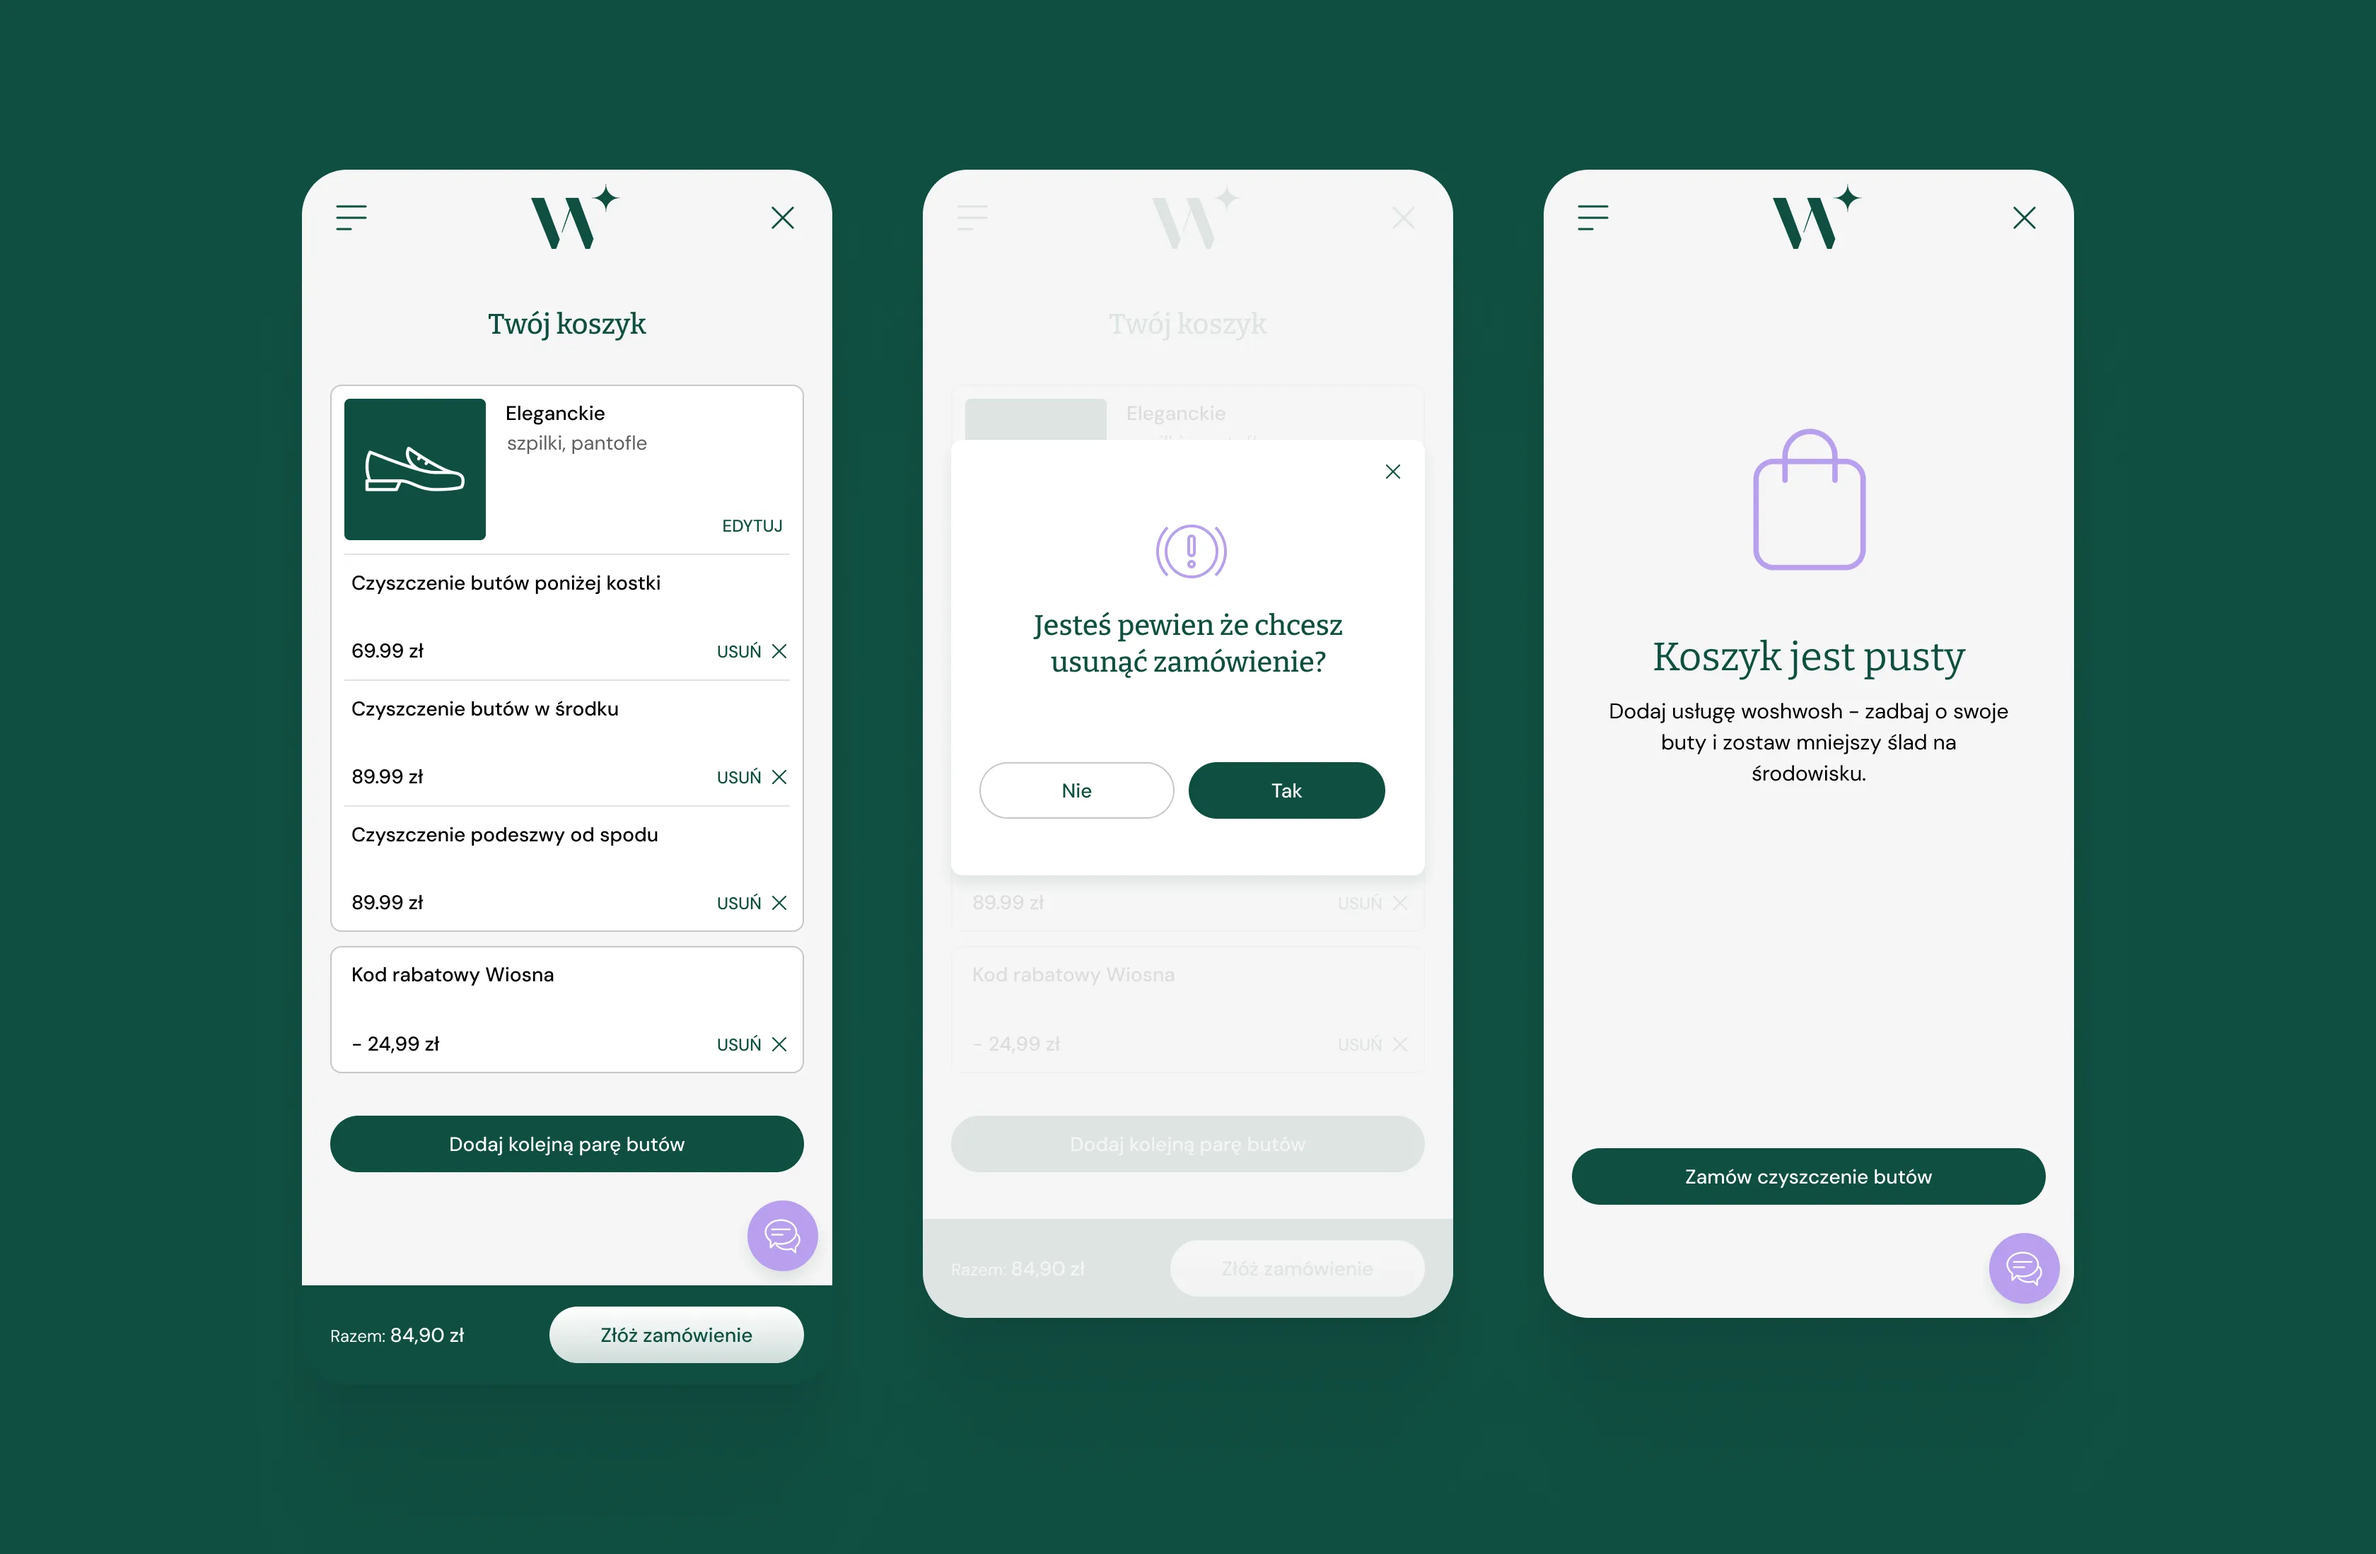
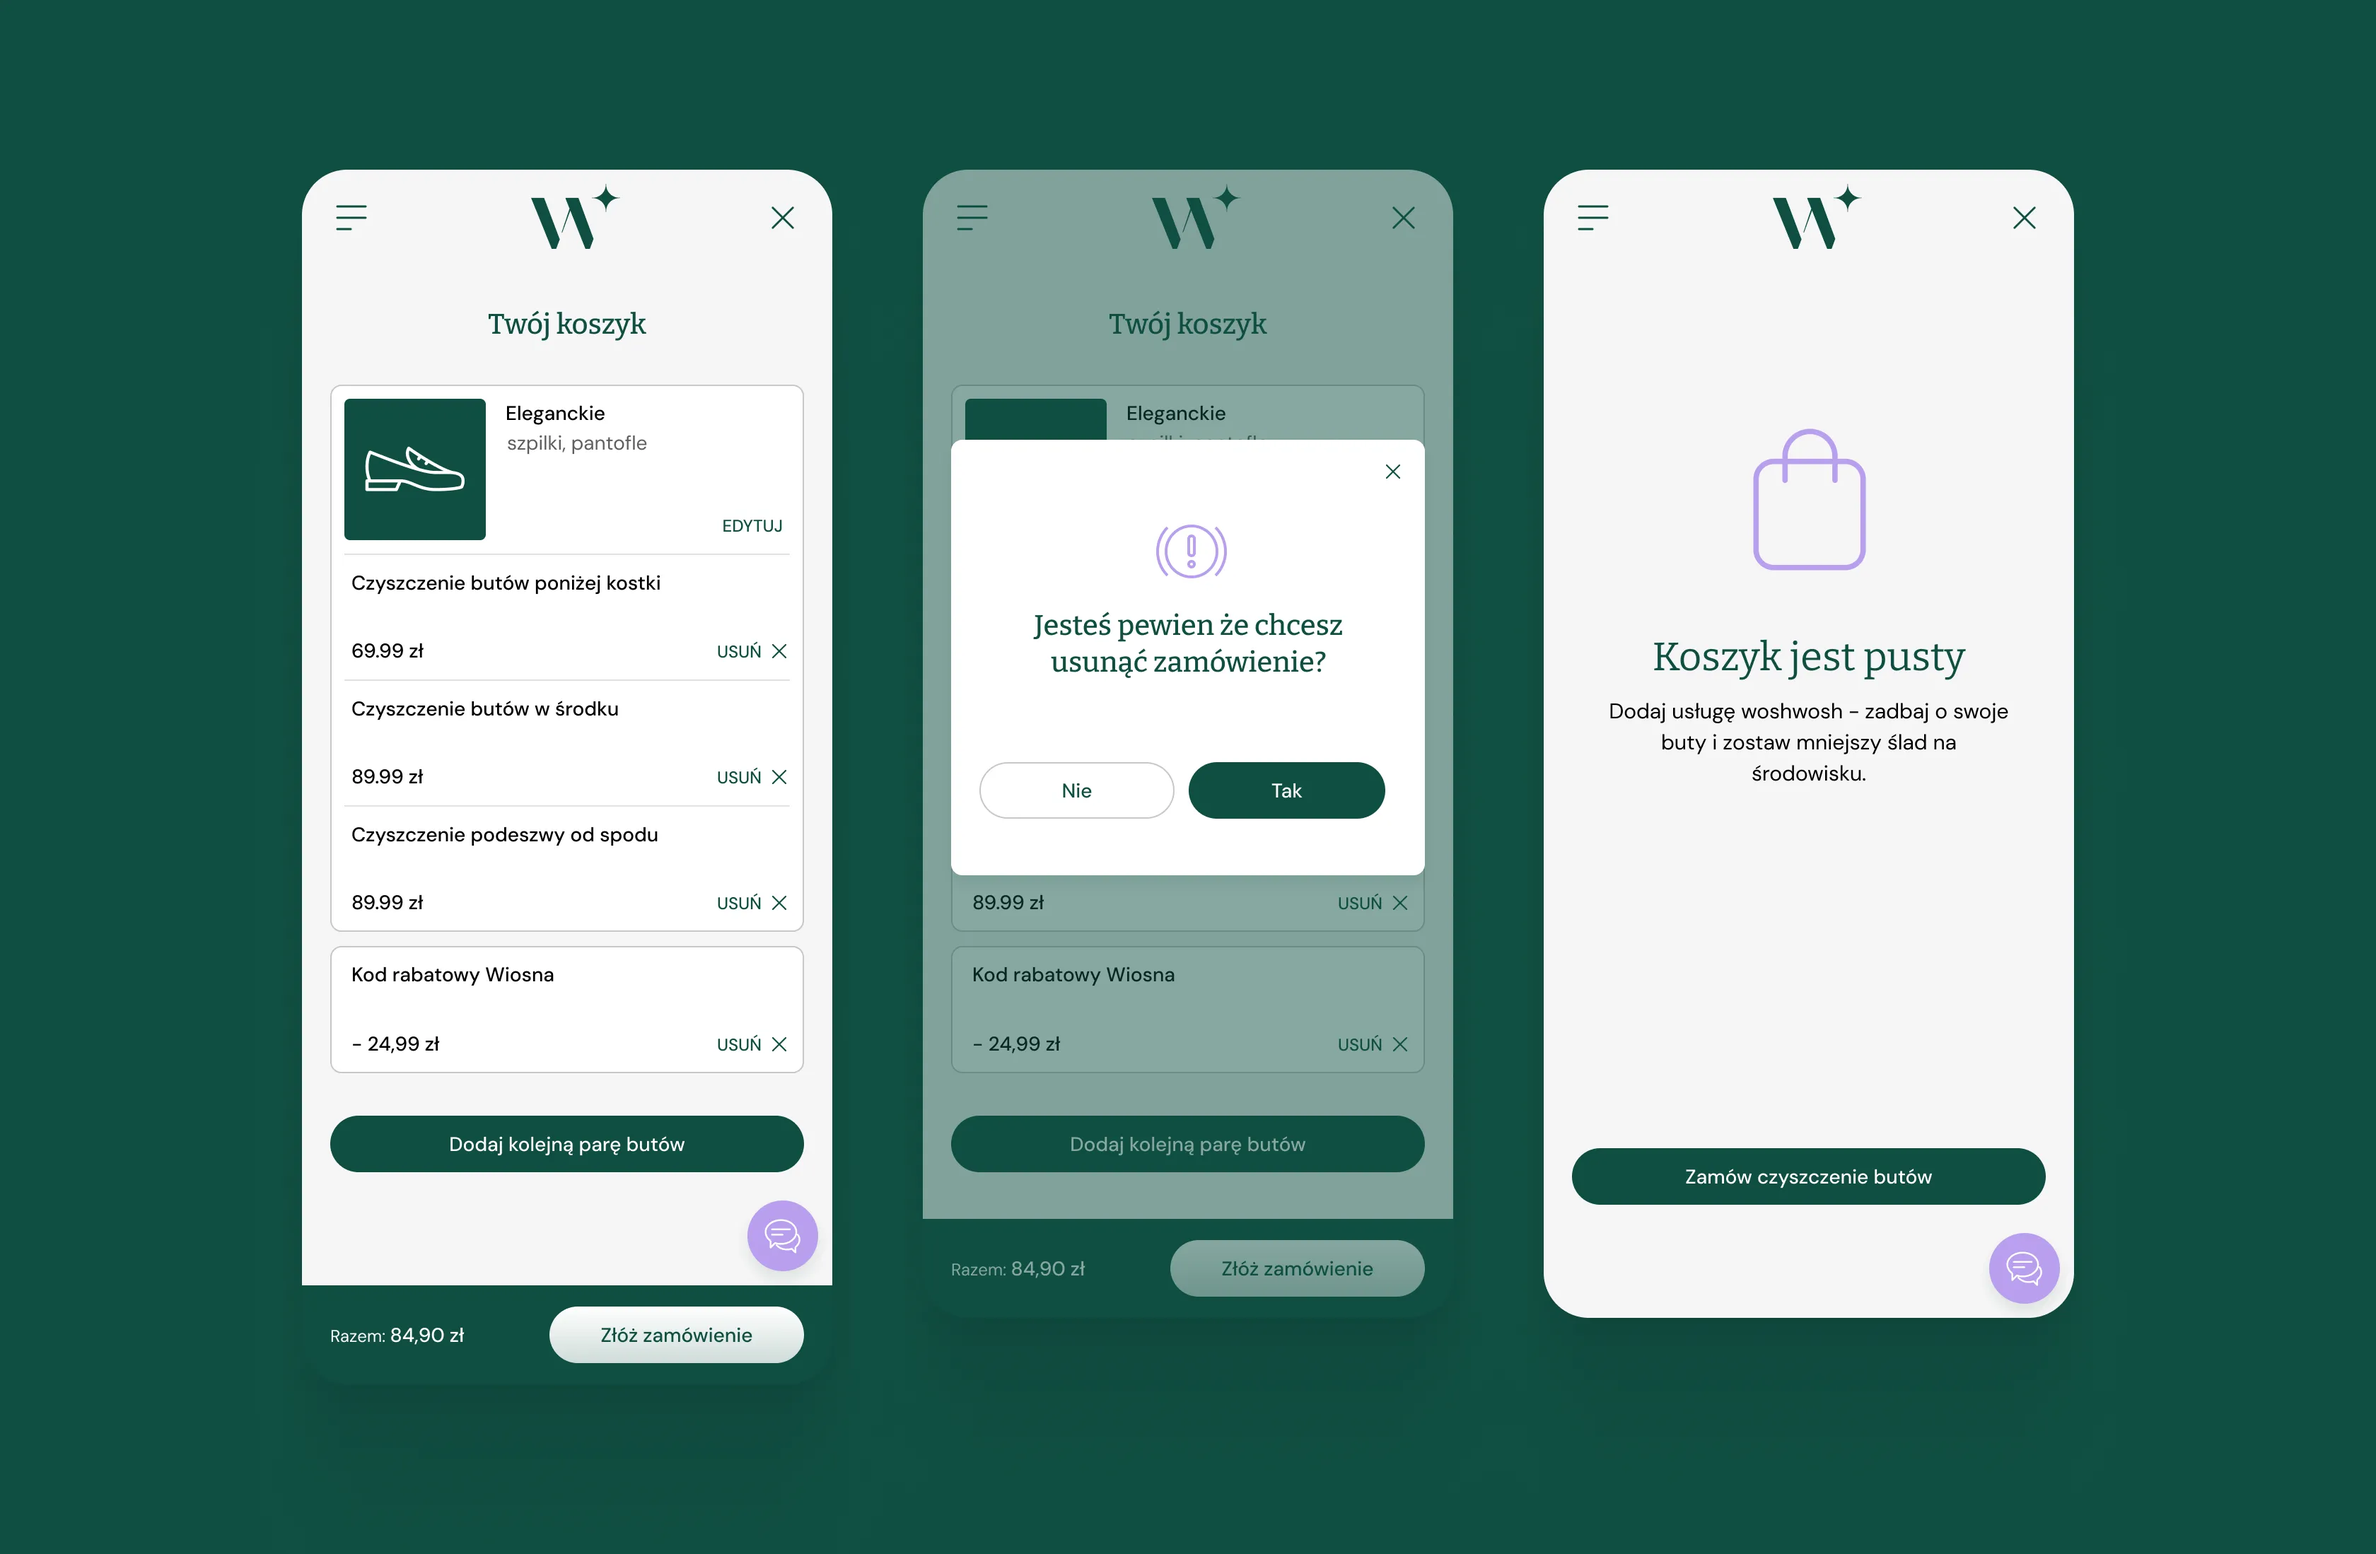
Case study woshwosh + rozbudowa szablonu case study
- Nowy case /case-study/woshwosh (data-driven: woshwosh.js)
- Kolejność sekcji A: serce produktu na start, funkcyjne ekrany na koniec
- App-screeny na kolorowej apli; hero cover = miniatura HP na #EEF3F1 85%
- Key Challenges jako akapity ciągłe (leads: tytuł czarny + opis szary)
- CasePanel: propsy widthMobile, padY, padYMobile, gap
- Hero: coverBg/coverWidth/coverMaxWidth, introWidth; intro eco-friendly U+2011
- Fix: [slug].astro forwarduje padY/widthMobile do CasePanel

Changed region(s): [[0.375, 0.0928, 0.625, 0.8662]]

diff --git a/src/data/cases/woshwosh.js b/src/data/cases/woshwosh.js
@@ -1,0 +1,115 @@
+// Treść case study: woshwosh.
+// Źródło treści (tekst + lista obrazków). Układ/CSS robi szablon
+// src/pages/case-study/[slug].astro. Opis pól: patrz ania-kruk.js.
+//
+// Ten case: obrazki leżą na kolorowej apli (panel), 80% desktop / 100% mobile,
+// padY:0 = tło widać tylko po bokach (bez marginesu góra/dół).
+// Kolory (podział Arka): 01, 07 → #EBEFF0; 03, 04, 05, 06, 08 → #0E4F41.
+// Hero (cover) = miniatura z HP (00.webp = kopia cover.webp) na tle #EEF3F1, 85%.
+// Bez tła, pełna szerokość: Hero.webp (w Introduction) i obrazek 02 (Process).
+// Obrazki 05 + 06 = jeden panel (bez tekstu między nimi).
+
+const LIGHT = '#EBEFF0';
+const GREEN = '#0E4F41';
+
+export const woshwosh = {
+  slug: 'woshwosh',
+  title: 'woshwosh',
+  description: 'A mobile app for ordering professional, eco-friendly shoe cleaning and repair. UX and UI design by Arek Sobczyk.',
+
+  hero: {
+    title: [
+      { text: 'woshwosh' },
+      { text: 'shoe care', mute: true },
+      { text: 'app', mute: true },
+    ],
+    intro: 'An app for ordering professional, eco‑friendly shoe cleaning and repair',   // eco‑friendly: dywiz niełamliwy (U+2011)
+    introWidth: '760px',   // 2 linie na desktop: „...and repair" kończy linię 2
+    role: 'UX design, UI design',
+    year: '2022',
+    cover: '00.webp',          // miniatura z HP (kopia cover.webp)
+    coverBg: '#EEF3F1',
+    coverWidth: '85%',
+    coverMaxWidth: '1100px',
+  },
+
+  sections: [
+    {
+      label: 'Introduction',
+      figLg: true,            // 200px odstęp od tekstu do obrazka poniżej
+      text: [
+        'woshwosh is the first company in Poland to offer professional shoe cleaning and repair in the spirit of zero waste. Serving both individual and business clients, the brand is built around sustainability and extending the life of things people already own. To make ordering simple, woshwosh needed an intuitive mobile app.',
+      ],
+      facts: [
+        ['My role', 'UX Design, UI Design'],
+        ['Client', 'woshwosh'],
+        ['Agency', 'Move Closer'],
+        ['Date', '2022'],
+      ],
+      figures: ['Hero.webp'],   // obecny hero zszedł o jedno niżej (pełna szerokość, bez tła)
+    },
+    {
+      label: 'Key Challenges',
+      figures: [{ panel: LIGHT, width: '80%', widthMobile: '100%', padY: 0, padYMobile: 'var(--space-32)', images: ['01.webp'] }],   // 01 zeszło o jedno niżej → obrazek między Key Challenges a Process
+      // leads: akapit ciągły „Tytuł (czarny). Opis (szary)". Kropkę po tytule dokłada szablon.
+      leads: [
+        {
+          lead: 'Logistics that run both ways',
+          text: 'The customer sends the shoes in (by courier or in person) and gets them back once the service is done. The checkout has to handle both directions.',
+        },
+        {
+          lead: 'A complex process behind a simple screen',
+          text: 'Different shoe types, additional services, and order statuses, all kept behind an easy interface.',
+        },
+        {
+          lead: 'Constant clarity',
+          text: 'The customer needs to know exactly what is happening with their shoes at every stage.',
+        },
+      ],
+    },
+    {
+      label: 'Process',
+      text: [
+        'I designed a mobile app that reduces ordering to two clear steps: pick the shoe type, then choose additional services.',
+        'In the checkout, I added a dedicated shipping step tailored to woshwosh\'s ship-in, ship-back model. On the company\'s side, I designed a shoe verification step and a notification system that keeps users informed from the moment shoes are sent to the moment they come back.',
+      ],
+      figures: ['02.webp'],   // bez tła, pełna szerokość
+    },
+    {
+      label: 'Service Selection',
+      text: [
+        'Choosing the shoe type and additional services: two steps, with the complexity kept out of sight.',
+      ],
+      figures: [{ panel: GREEN, width: '80%', widthMobile: '100%', padY: 0, padYMobile: 'var(--space-32)', images: ['04.webp'] }],
+    },
+    {
+      label: 'Cart & Checkout',
+      text: [
+        'A payment flow that folds in the extra shipping step, so it feels like part of the order, not an extra hurdle.',
+      ],
+      figures: [{ panel: GREEN, width: '80%', widthMobile: '100%', padY: 0, padYMobile: 'var(--space-32)', gap: 0, images: ['05.webp', '06.webp'] }],   // mobile: 40px tylko skrajne (nad 05, pod 06); gap:0 trzyma je złączone
+    },
+    {
+      label: 'Messages',
+      text: [
+        'Status screens that do the talking: order confirmed with packing instructions one tap away, service in progress, payment failed with a clear way to retry. Every state tells the customer what happened and what to do next.',
+      ],
+      figures: [{ panel: LIGHT, width: '80%', widthMobile: '100%', padY: 0, padYMobile: 'var(--space-32)', images: ['07.webp'] }],
+    },
+    {
+      label: 'Registration & Login',
+      text: [
+        'Simple sign-up that gets users to their first order quickly.',
+      ],
+      figures: [{ panel: GREEN, width: '80%', widthMobile: '100%', padY: 0, padYMobile: 'var(--space-32)', images: ['03.webp'] }],
+    },
+    {
+      label: 'Completed orders',
+      last: true,
+      text: [
+        'A clear history of every finished service.',
+      ],
+      figures: [{ panel: GREEN, width: '80%', widthMobile: '100%', padY: 0, padYMobile: 'var(--space-32)', images: ['08.webp'] }],
+    },
+  ],
+};

diff --git a/src/data/work.js b/src/data/work.js
@@ -78,7 +78,7 @@ export const work = [
     desc: 'an app for ordering professional shoe cleaning',
     role: 'UX/UI design',
     year: '2022',
-    href: '/case-study-woshwosh',
+    href: '/case-study/woshwosh',
     badge: 'See Case',
     media: { bgColor: '#EEF3F1', shot: 'work/woshwosh/cover.webp', shotW: '85%' },
   },

diff --git a/src/data/cases/index.js b/src/data/cases/index.js
@@ -4,8 +4,10 @@
 // Szablon src/pages/case-study/[slug].astro generuje stronę z każdego wpisu.
 import { aniaKruk } from './ania-kruk.js';
 import { k2Bank } from './k2-bank.js';
+import { woshwosh } from './woshwosh.js';
 
 export const cases = [
   aniaKruk,
   k2Bank,
+  woshwosh,
 ];

diff --git a/CLAUDE.md b/CLAUDE.md
@@ -7,8 +7,8 @@ Lekki, statyczny serwis portfolio na własnej domenie `areksobczyk.com` (darmowy
 
 ## Stan
 - ✅ Strona główna (`/`) i About (`/about`) gotowe
-- ✅ Case study = szablon sterowany danymi. Treść w `src/data/cases/<slug>.js`, układ w `src/pages/case-study/[slug].astro`. Ania Kruk gotowy (`/case-study/ania-kruk`).
-- ⬜ Pozostałe case studies (Apaczka, K2 Bank, woshwosh) = nowy plik treści każdy
+- ✅ Case study = szablon sterowany danymi. Treść w `src/data/cases/<slug>.js`, układ w `src/pages/case-study/[slug].astro`. Gotowe: Ania Kruk, K2 Bank, woshwosh.
+- ⬜ Pozostałe case studies (Apaczka) = nowy plik treści
 - ⬜ Blog
 - ⬜ Hosting + podpięcie domeny `areksobczyk.com`
 
